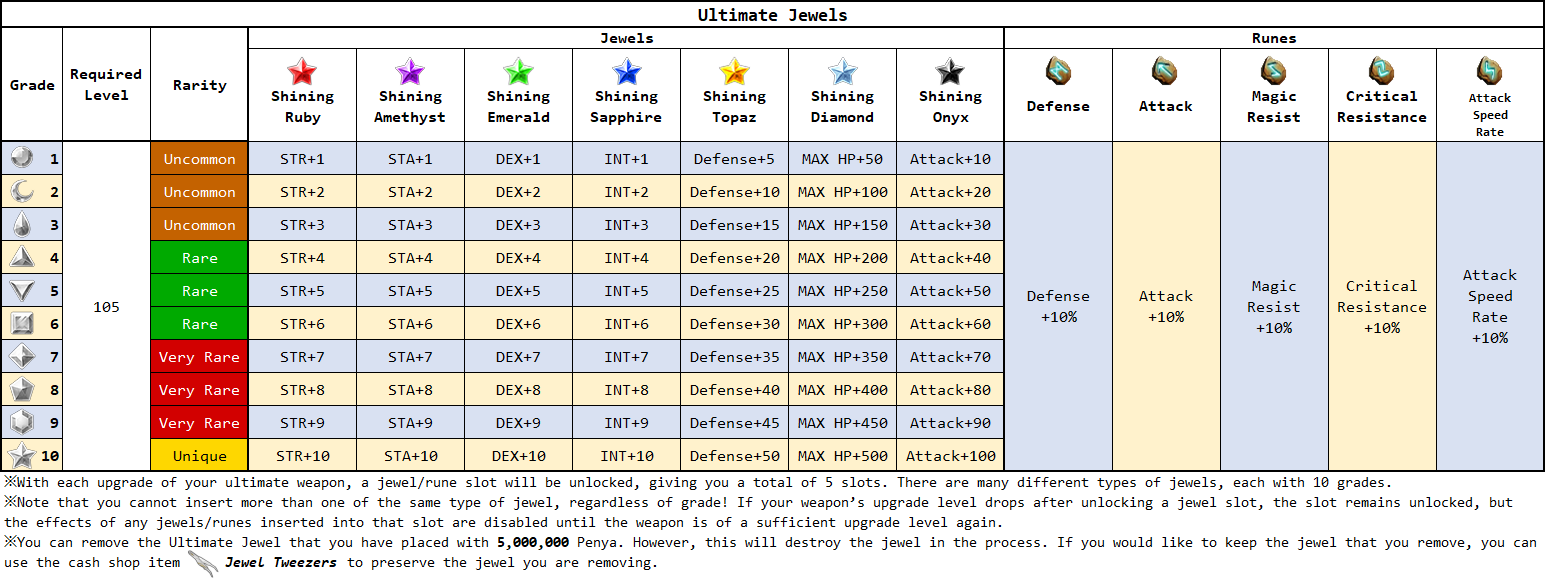
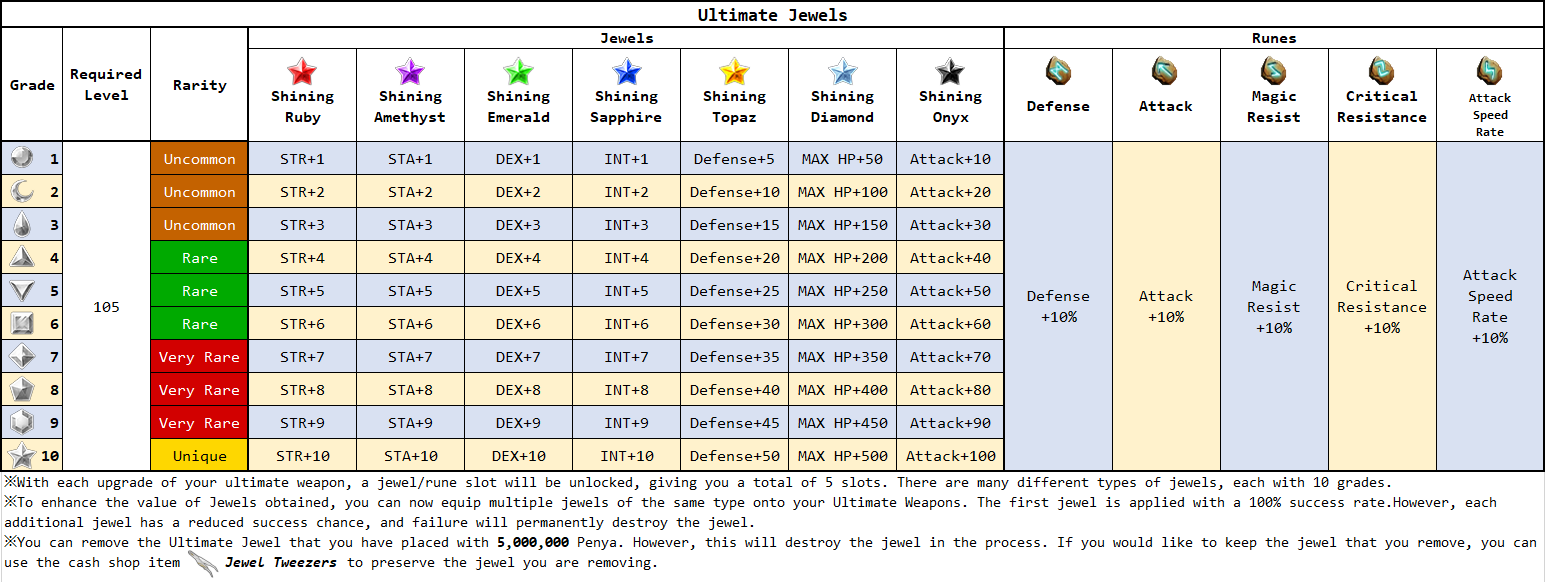
feat: update ultimate jewels

diff --git a/README.md b/README.md
@@ -1634,7 +1634,9 @@ Those who have completed the Optional Master Quest during the event period will 
 
 <div align="center"><img src="./upgrade/ultimate/fusion_ultimate_jewels.png" alt="fusion_ultimate_jewels.png"/></div>
 
-<div align="center"><img src="./upgrade/ultimate/synthesize_ultimate_jewel.png" alt="synthesize_ultimate_jewel.png"/></div>
+<div align="center"><img src="./upgrade/ultimate/synthesize_ultimate_jewels.png" alt="synthesize_ultimate_jewels.png"/></div>
+
+<div align="center"><img src="./upgrade/ultimate/insert_ultimate_jewels.png" alt="insert_ultimate_jewels.png"/></div>
 
 </details></td></tr></table>
 
